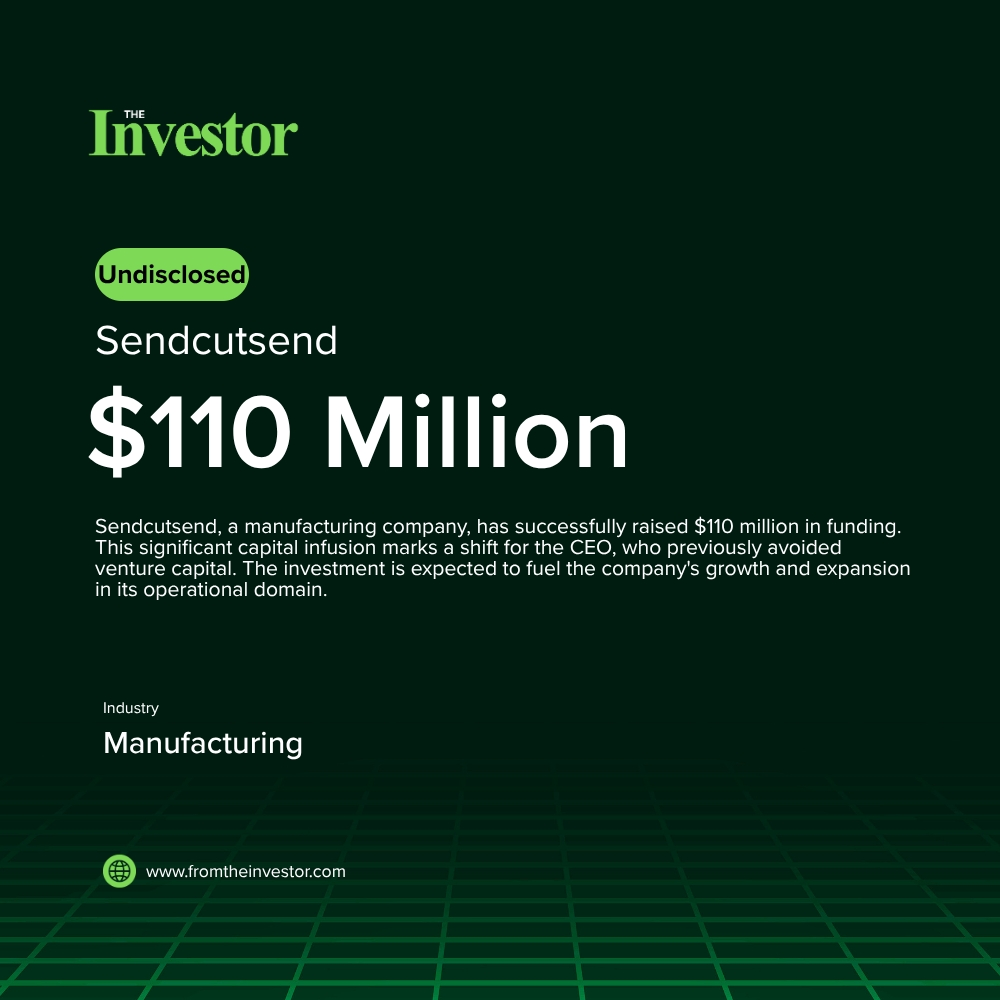
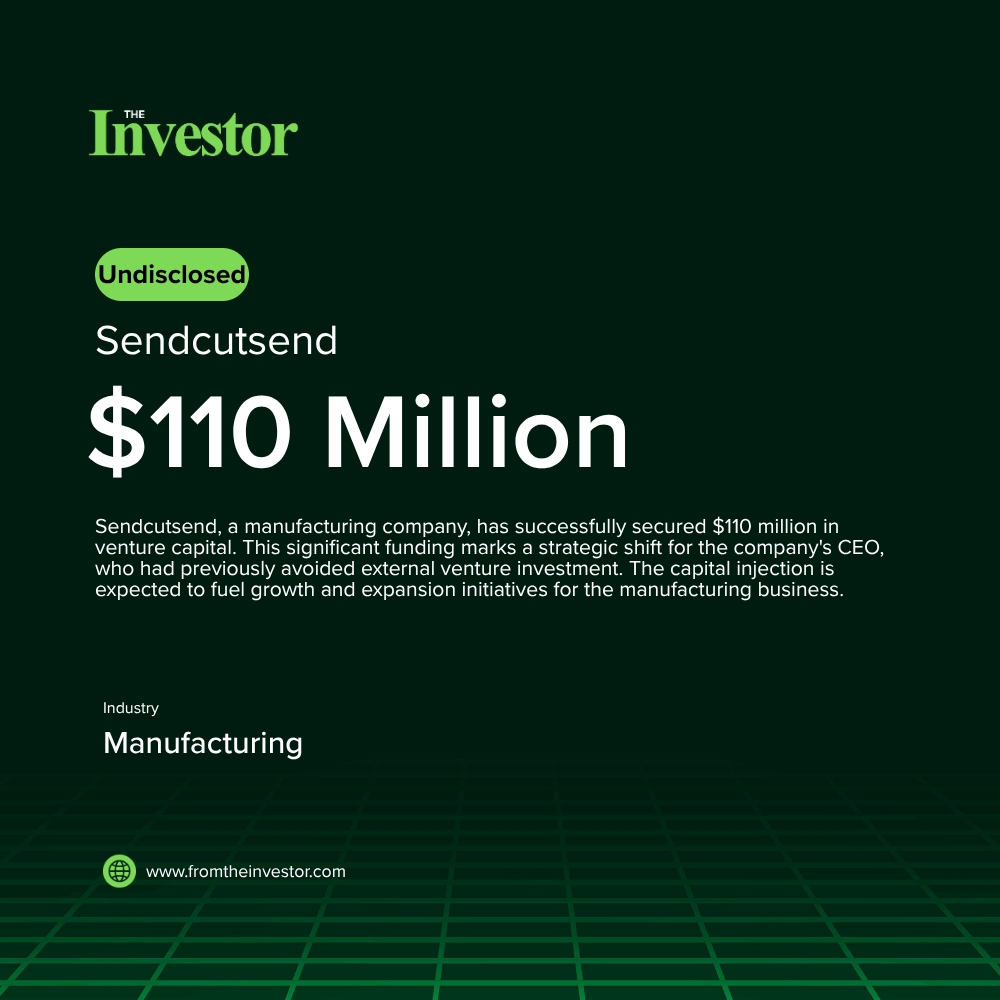
feat: customize daily email layout and target multiple subscriber list

Changed region(s): [[0.093, 0.496, 0.899, 0.62]]

diff --git a/scripts/fetch_and_upload.py b/scripts/fetch_and_upload.py
@@ -379,19 +379,16 @@ def send_gmail(deals, local_image_path=None):
         print("Warning: GMAIL_USER or GMAIL_APP_PASSWORD not set. Skipping Gmail notification.")
         return
         
-    print(f"Sending email notification to {gmail_user}...")
-    msg = MIMEMultipart('related')
+    recipients = ["richmondeke@gmail.com", "kamsyosakwe@gmail.com"]
     date_str = datetime.now().strftime("%Y-%m-%d")
-    msg['Subject'] = f"Daily Fundraising News Report ({date_str})"
-    msg['From'] = gmail_user
-    msg['To'] = gmail_user
+    subject = f"The Investor's Daily Fundraising Report - {date_str}"
     
-    # HTML Email body
+    # HTML Email body content
     html_parts = [
         "<html>",
         "<body style='font-family: Arial, sans-serif; color: #333; line-height: 1.6;'>",
-        f"<h2 style='color: #004085;'>Daily Startup Fundraising News Report ({date_str})</h2>",
-        f"<p>Curated from TechCrunch and Hacker News. Contains {len(deals)} fundraising deals.</p>"
+        "<p>Hi Investor,</p>",
+        "<p>This is Richmond from <strong>The Investor</strong>. Here's our top news for today:</p>"
     ]
     
     # Embed top deal card image at the top of the email
@@ -415,32 +412,45 @@ def send_gmail(deals, local_image_path=None):
         html_parts.append(f"</div>")
         html_parts.append("<hr style='border: 0; border-top: 1px solid #eee; margin: 20px 0;'>")
         
-    html_parts.append(f"<p style='font-size: 11px; color: #888;'>Generated automatically by Daily News Report v3.0.</p>")
+    html_parts.append(f"<p style='font-size: 11px; color: #888;'>You are receiving this because you are subscribed to The Investor.</p>")
     html_parts.append("</body>")
     html_parts.append("</html>")
     
-    msg_html = MIMEText("\n".join(html_parts), 'html')
-    msg.attach(msg_html)
+    html_content = "\n".join(html_parts)
     
-    # Attach embedded image
-    if local_image_path and os.path.exists(local_image_path):
-        try:
-            with open(local_image_path, 'rb') as f:
-                img_data = f.read()
-            msg_img = MIMEImage(img_data, name=os.path.basename(local_image_path))
-            msg_img.add_header('Content-ID', '<top_deal_image>')
-            msg.attach(msg_img)
-        except Exception as e:
-            print(f"Error attaching inline image to Gmail: {e}")
-            
     try:
+        # Connect to Gmail SMTP server once
         server = smtplib.SMTP_SSL('smtp.gmail.com', 465)
         server.login(gmail_user, gmail_password)
-        server.sendmail(gmail_user, [gmail_user], msg.as_string())
+        
+        for recipient in recipients:
+            print(f"Sending email notification to {recipient}...")
+            msg = MIMEMultipart('related')
+            msg['Subject'] = subject
+            msg['From'] = f"The Investor <{gmail_user}>"
+            msg['To'] = recipient
+            
+            # Attach HTML body
+            msg_html = MIMEText(html_content, 'html')
+            msg.attach(msg_html)
+            
+            # Attach embedded image
+            if local_image_path and os.path.exists(local_image_path):
+                try:
+                    with open(local_image_path, 'rb') as f:
+                        img_data = f.read()
+                    msg_img = MIMEImage(img_data, name=os.path.basename(local_image_path))
+                    msg_img.add_header('Content-ID', '<top_deal_image>')
+                    msg.attach(msg_img)
+                except Exception as e:
+                    print(f"Error attaching inline image for {recipient}: {e}")
+            
+            server.sendmail(gmail_user, [recipient], msg.as_string())
+            
         server.close()
-        print("Daily report email sent successfully via Gmail!")
+        print("All emails sent successfully via Gmail!")
     except Exception as e:
-        print(f"Error sending email via Gmail: {e}")
+        print(f"Error sending emails via Gmail: {e}")
 
 if __name__ == "__main__":
     # Load environment variables from .env file if it exists

diff --git a/NewsReport/2026-05-20-news-report.md b/NewsReport/2026-05-20-news-report.md
@@ -5,43 +5,43 @@
 
 ---
 
-## 1. Sendcutsend: $110M
+## 1. Sendcutsend: $110 Million Undisclosed Round
 
-- **Summary**: Sendcutsend, a manufacturing company, has successfully raised $110 million in funding. This significant capital infusion marks a shift for the CEO, who previously avoided venture capital. The investment is expected to fuel the company's growth and expansion in its operational domain.
+- **Summary**: Sendcutsend, a manufacturing company, has successfully secured $110 million in venture capital. This significant funding marks a strategic shift for the company's CEO, who had previously avoided external venture investment. The capital injection is expected to fuel growth and expansion initiatives for the manufacturing business.
 - **Key Points**:
   1. Investors: Undisclosed
-  2. Sector keywords: manufacturing, venture capital, industrial tech
-- **Source**: [Hacker News](https://www.wsj.com/business/entrepreneurship/this-manufacturing-ceo-once-spurned-venture-capital-now-hes-taking-110-million-82f7aafb)
-- **Generated Card**: [View Rendered Image](https://templated-assets.s3.amazonaws.com/render/8aa07e39-424a-4d64-a5af-6c2d207e321a.jpg)
+  2. Sector keywords: manufacturing, venture capital, growth equity, industrial tech
+- **Source**: [WSJ](https://www.wsj.com/business/entrepreneurship/this-manufacturing-ceo-once-spurned-venture-capital-now-hes-taking-110-million-82f7aafb)
+- **Generated Card**: [View Rendered Image](https://templated-assets.s3.amazonaws.com/render/05a753c8-b866-48a7-8f73-f09dd3044603.jpg)
 
 ![Visual Card](images/2026-05-20-top-deal.jpg)
 
-- **Keywords**: `manufacturing` `venture capital` `industrial tech`
+- **Keywords**: `manufacturing` `venture capital` `growth equity` `industrial tech`
+- **Score**: ⭐⭐⭐⭐⭐ (5/5)
+
+---
+
+## 2. Status AI: $17 Million Undisclosed Round
+
+- **Summary**: Status AI is an innovative platform transforming social media from passive feeds into interactive entertainment. It aims to immerse users in stories rather than merely watching them, catering to the next generation's desire for deeper engagement. This funding will support its mission to usher in a new era of social networking.
+- **Key Points**:
+  1. Investors: Undisclosed
+  2. Sector keywords: social media, AI, interactive entertainment, gamification
+- **Source**: [TechCrunch](https://techcrunch.com/2026/05/19/gamified-social-media-network-status-announces-17m-funding-to-help-usher-in-new-era-of-social-networking/)
+- **Keywords**: `social media` `AI` `interactive entertainment` `gamification`
 - **Score**: ⭐⭐⭐⭐ (4/5)
 
 ---
 
-## 2. Status AI: $17M funding
+## 3. Stilta: $10.5 Million Seed
 
-- **Summary**: Status AI is a social media platform aiming to transform passive content consumption into interactive entertainment. It enables users to engage with and 'live inside' stories, moving beyond traditional social media feeds. This approach seeks to usher in a new era of social networking by fostering deeper user immersion.
-- **Key Points**:
-  1. Investors: Undisclosed
-  2. Sector keywords: social media, AI, interactive entertainment, consumer tech
-- **Source**: [TechCrunch](https://techcrunch.com/2026/05/19/gamified-social-media-network-status-announces-17m-funding-to-help-usher-in-new-era-of-social-networking/)
-- **Keywords**: `social media` `AI` `interactive entertainment` `consumer tech`
-- **Score**: ⭐⭐⭐ (3/5)
-
----
-
-## 3. Stilta: $10.5M Seed
-
-- **Summary**: Stilta is an AI platform that automates the research and analytical work behind intellectual property (IP) cases. This aims to significantly reduce the labor-intensive, slow, and expensive nature of patent litigation. The platform helps companies rediscover and manage their forgotten patents more efficiently.
+- **Summary**: Stilta is an AI platform designed to automate the labor-intensive research and analytical work involved in intellectual property cases. The company aims to make patent litigation faster, more efficient, and less expensive by helping companies rediscover and leverage forgotten patents within their portfolios.
 - **Key Points**:
   1. Investors: a16z, YC
-  2. Sector keywords: legal tech, AI, intellectual property, SaaS
+  2. Sector keywords: legal tech, AI, intellectual property, patent management
 - **Source**: [TechCrunch](https://techcrunch.com/2026/05/19/legal-tech-announced-stilta-announces-10m-seed-backed-by-yc-and-a16z-months-after-launch/)
-- **Keywords**: `legal tech` `AI` `intellectual property` `SaaS`
-- **Score**: ⭐⭐⭐ (3/5)
+- **Keywords**: `legal tech` `AI` `intellectual property` `patent management`
+- **Score**: ⭐⭐⭐⭐ (4/5)
 
 ---
 
